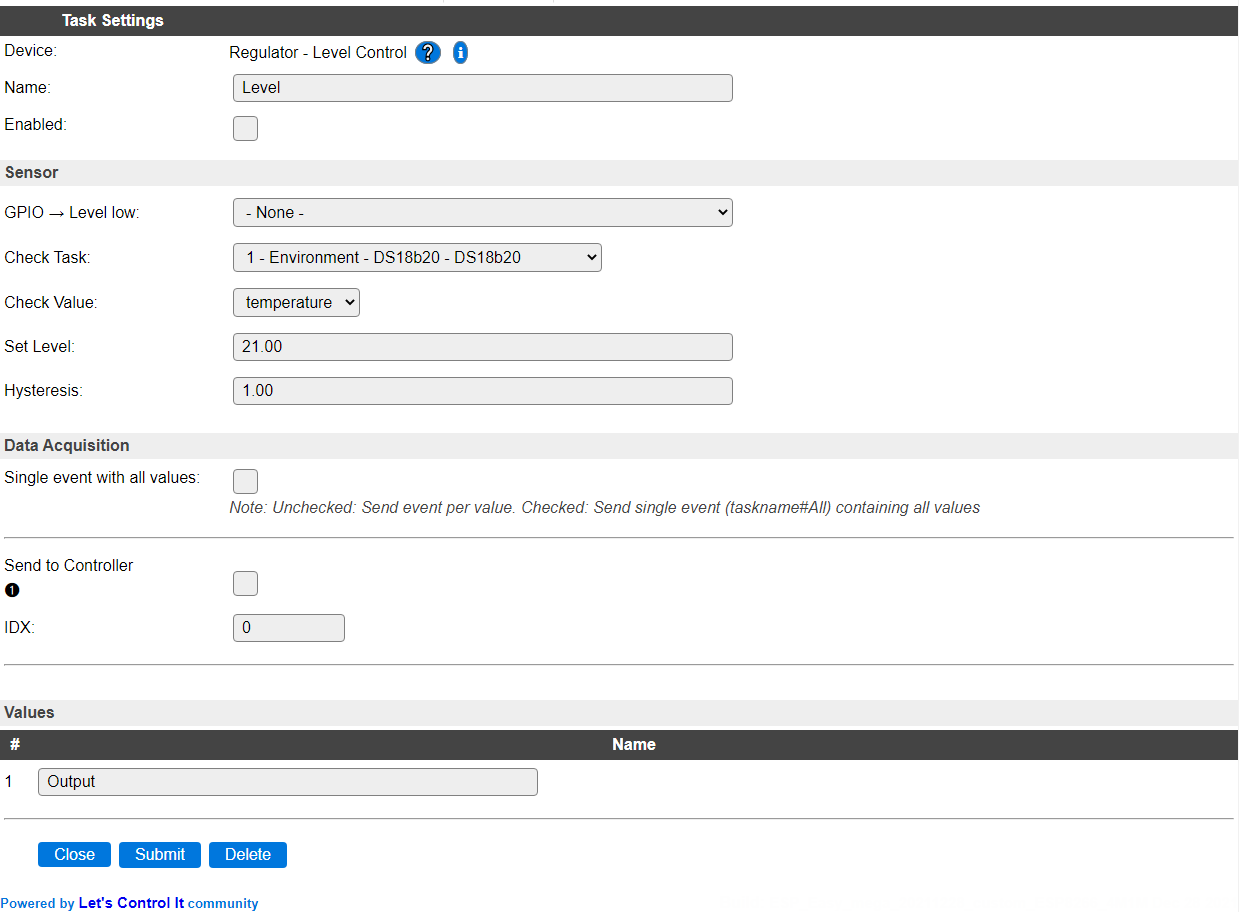
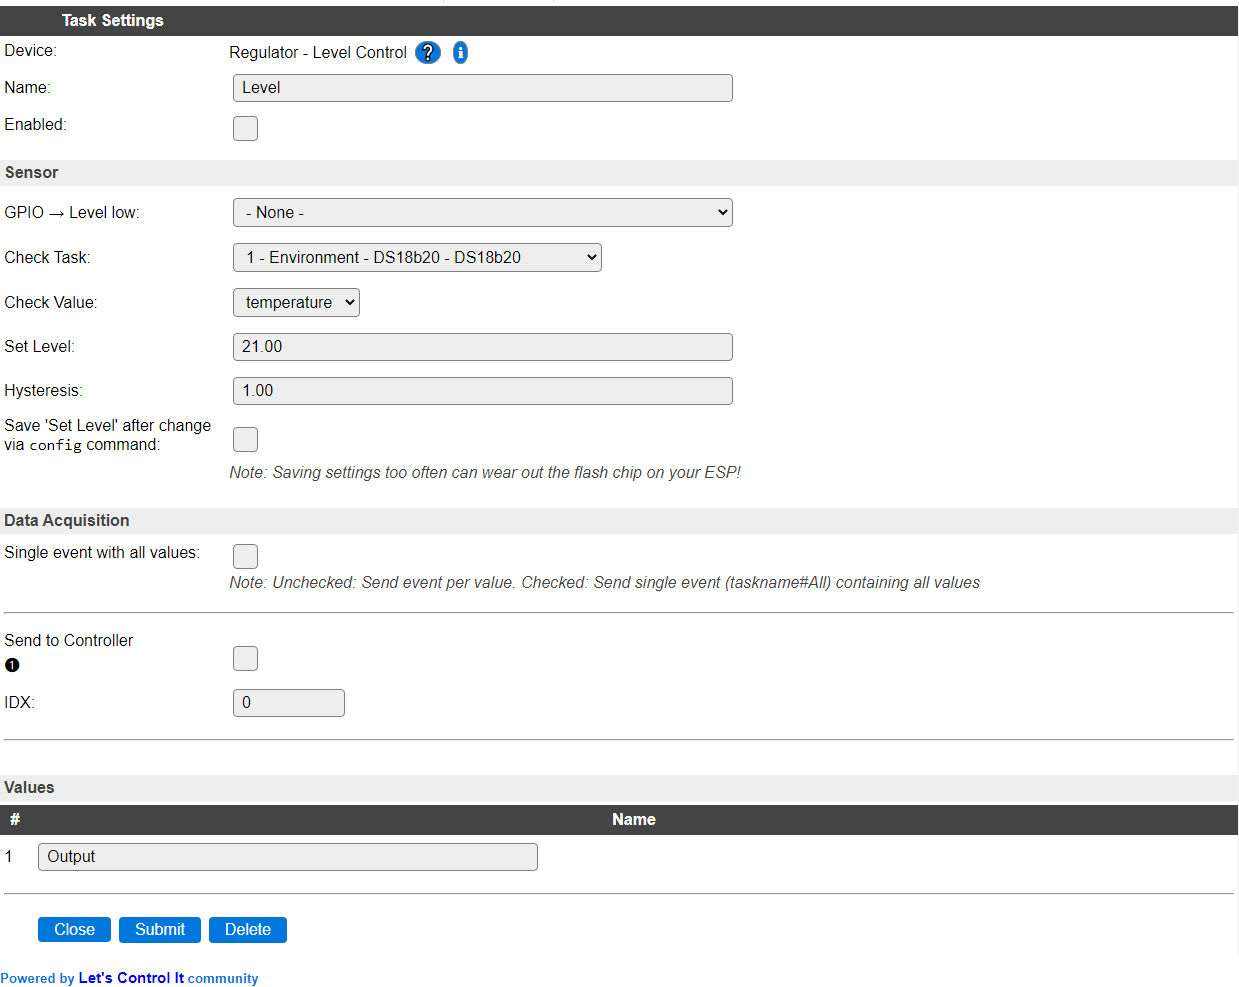
[P021] Add setting for saving during config change, update docs

diff --git a/docs/source/Plugin/P021.rst b/docs/source/Plugin/P021.rst
@@ -58,8 +58,12 @@ Sensor
 
 There is 1 exception to the **Hysteresis**: If the Hysteresis is set to 0, the output state will turn on (1) if the measured value goes *below* Set Value, and the output state will turn off (0) if the measured value reaches ``Set Value + 1.0``.
 
+* **Save 'Set Level' after change via config command** Via the config command, the **Set Level** value can be changed. To avoid wearing out the flash memory of the device by too often saving these settings, the default is now off, for existing tasks (after upgrade of ESPEasy), the old behavior of saving after each change is still active. The user should decide if saving the setting is actually required, or if that can be attained by carefully planning a save command or via a manual save.
 
-The Data Acquisition and Send to Controller settings are standard available configuration items. Send to Controller only when one or more Controllers are configured.
+Data Acquisition
+^^^^^^^^^^^^^^^^
+
+This group of settings, **Single event with all values** and **Send to Controller** settings are standard available configuration items. Send to Controller is only visible when one or more Controllers are configured.
 
 Values
 ^^^^^^
